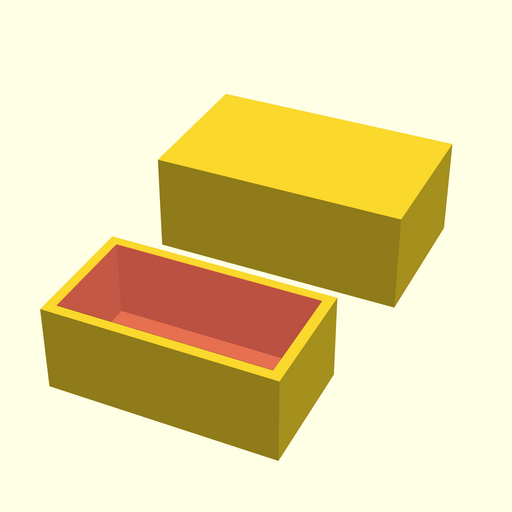
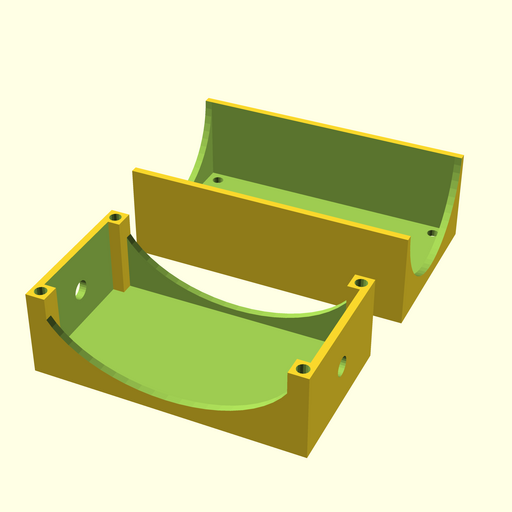
Finish buck converter case

Changed region(s): [[0.0312, 0.1875, 0.9062, 0.9062]]

diff --git a/examples/Examples/README.md b/examples/Examples/README.md
@@ -1,5 +1,21 @@
-# Example: Box With Holes
+# Examples
+
+## Box With Holes
+
+### preview
 
 <img src="../../examples-out/box-with-holes.png" alt="Box With Holes">
 
+### 3D print
+
 <img src="../../assets/box-with-holes.jpg" alt="Box With Holes">
+
+## Buck Converter Case
+
+### preview
+
+<img src="../../examples-out/buck-converter-case.png" alt="Buck Converter Case">
+
+### 3D print
+
+<!-- <img src="../../assets/buck-converter-case.jpg" alt="Buck Converter Case"> -->